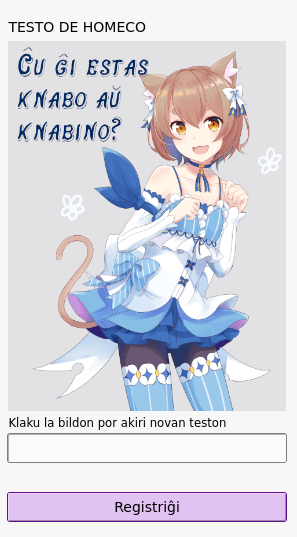
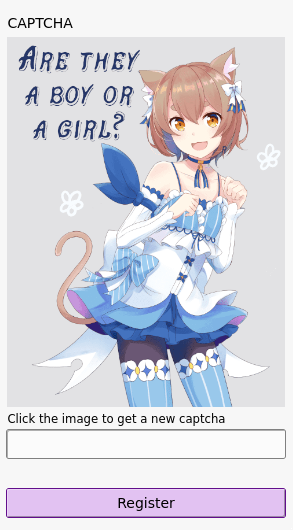
Add girl_or_boy example CAPTCHA

diff --git a/README.md b/README.md
@@ -3,7 +3,7 @@ Kaptĉapelo is a simple [Kocaptcha](https://github.com/koto-bank/kocaptcha)-comp
 
 Since Kaptĉapelo is a kinda-sorta drop-in replacement for Kocaptcha, you can [use it as CAPTCHA](https://docs-develop.pleroma.social/backend/configuration/cheatsheet/#captcha) for your [Pleroma](https://pleroma.social) server.
 
-![A screenshot of a CAPTCHA challenge on the registration page of a Pleroma server. It is a picture of a feminine anime character, Ferris from Re:Zero, with the question in Esperanto: “Ĉu ĝi estas knabo aŭ knabino?”](example.png)
+![A screenshot of a CAPTCHA challenge on the registration page of a Pleroma server. It is a picture of a feminine anime character, Ferris from Re:Zero, with the question: “Are they a boy or a girl?”](example.png)
 
 
 ## Installation
